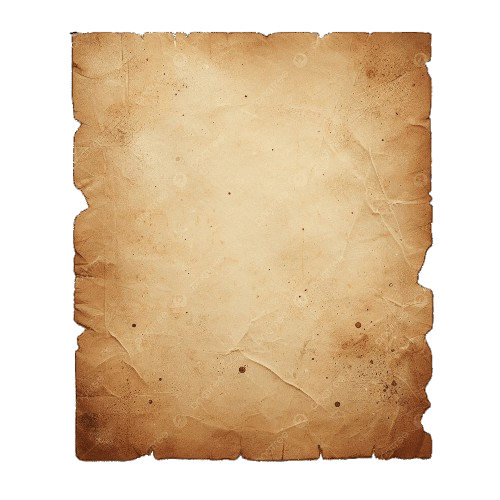
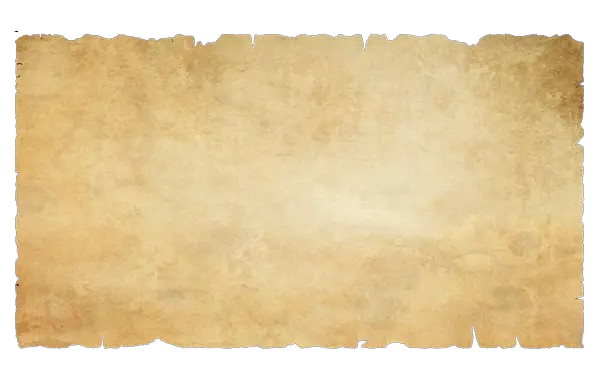
contrats Confrérie : conserver la version embed (texte lisible) + nouvelle texture parchemin
Sur demande : retour à la version embed pour les 3 MP (contrat client, ordre de
mission, fin de mission) — texte lisible dans le message + parchemin en image en
dessous. Nouvelle texture parchemin appliquée (depositphotos torn grunge).
Le code de génération d'image « texte gravé » est conservé (parchemin-image.js +
helpers) mais non utilisé, pour réactivation ultérieure.

Claude-Session: https://claude.ai/code/session_01Td26hkUg7LXPsCYqra8cis

diff --git a/contrats-confrerie.js b/contrats-confrerie.js
@@ -340,11 +340,8 @@ async function envoyerBriefings(guild, contrat) {
     try {
       const m = await guild.members.fetch(userId).catch(() => null);
       if (m) {
-        // Ordre de mission en IMAGE parchemin (texte gravé) ; repli sur l'embed si génération KO
-        const imgB = await genererImageBriefing(contrat).catch(() => null);
-        const dm = imgB
-          ? await m.send({ content: "📜 *Frère, un ordre de mission t'est confié. Lis-le, puis réponds.*", files: [new AttachmentBuilder(imgB, { name: `mission-${contrat.id}.png` })], components: buildBriefingButtons(contrat) }).catch(() => null)
-          : await m.send({ embeds: [buildBriefingEmbed(contrat)], components: buildBriefingButtons(contrat), files: [parcheminFichier()].filter(Boolean) }).catch(() => null);
+        // Version conservée : ordre de mission en embed parchemin (image en dessous)
+        const dm = await m.send({ embeds: [buildBriefingEmbed(contrat)], components: buildBriefingButtons(contrat), files: [parcheminFichier()].filter(Boolean) }).catch(() => null);
         if (dm) dmOk = true;
       }
     } catch {}
@@ -781,28 +778,23 @@ async function cloturer(interaction, succes) {
   }
   const jc = journalCh(interaction.guild);
   if (jc) await jc.send({ embeds: [new EmbedBuilder().setColor(succes ? 0x57F287 : 0xED4245).setTitle(`${succes ? '✅' : '💀'} Contrat ${succes ? 'réussi' : 'échoué'} — ${c.id}`).setDescription(`**${c.typeMission}** · clôturé par ${c.clôturePar}`).setFooter({ text: 'La Confrérie • Contrats' }).setTimestamp()] }).catch(() => {});
-  // prévenir les agents — fin de mission en IMAGE parchemin (repli sur l'embed si génération KO)
-  const imgFin = await genererImageFinMission(c, succes).catch(() => null);
+  // prévenir les agents — fin de mission en embed parchemin (version conservée)
   for (const userId of (c.agents || [])) {
     try {
       const m = await interaction.guild.members.fetch(userId).catch(() => null);
       if (!m) continue;
-      if (imgFin) {
-        await m.send({ files: [new AttachmentBuilder(imgFin, { name: `fin-${c.id}.png` })] }).catch(() => {});
-      } else {
-        await m.send({ embeds: [new EmbedBuilder()
-          .setColor(0xC9A66B)
-          .setTitle(`📜 ⸺  ${succes ? 'MISSION ACCOMPLIE' : 'MISSION ÉCHOUÉE'}  ⸺ 📜`)
-          .setDescription([
-            `*Concernant le pacte \`${c.id}\` (${emojiType(c.typeMission)} ${c.typeMission})…*`,
-            '',
-            succes
-              ? '✒️ *Belle besogne, frère. La Confrérie n\'oublie jamais les siens — ta part te reviendra.*'
-              : '🩸 *La besogne a tourné court. On en tire les leçons, et l\'on remet l\'ouvrage sur le métier.*',
-          ].join('\n'))
-          .setFooter({ text: '✒️ La Confrérie — an 1904 • Confidentiel' })
-          .setImage(PARCHEMIN_IMG)], files: [parcheminFichier()].filter(Boolean) }).catch(() => {});
-      }
+      await m.send({ embeds: [new EmbedBuilder()
+        .setColor(0xC9A66B)
+        .setTitle(`📜 ⸺  ${succes ? 'MISSION ACCOMPLIE' : 'MISSION ÉCHOUÉE'}  ⸺ 📜`)
+        .setDescription([
+          `*Concernant le pacte \`${c.id}\` (${emojiType(c.typeMission)} ${c.typeMission})…*`,
+          '',
+          succes
+            ? '✒️ *Belle besogne, frère. La Confrérie n\'oublie jamais les siens — ta part te reviendra.*'
+            : '🩸 *La besogne a tourné court. On en tire les leçons, et l\'on remet l\'ouvrage sur le métier.*',
+        ].join('\n'))
+        .setFooter({ text: '✒️ La Confrérie — an 1904 • Confidentiel' })
+        .setImage(PARCHEMIN_IMG)], files: [parcheminFichier()].filter(Boolean) }).catch(() => {});
     } catch {}
   }
 }
@@ -850,18 +842,8 @@ async function onSignPick(interaction) {
     new ButtonBuilder().setCustomId(`cc_dosign::${id}`).setLabel('Apposer ma marque').setEmoji('✒️').setStyle(ButtonStyle.Success),
     new ButtonBuilder().setCustomId(`cc_norefuse::${id}`).setLabel('Décliner').setEmoji('✖️').setStyle(ButtonStyle.Danger),
   );
-  // On envoie le contrat comme IMAGE parchemin (texte gravé) ; si la génération échoue → embed classique
-  const imgBuf = await genererImageContrat(c).catch(() => null);
-  let dm;
-  if (imgBuf) {
-    dm = await user.send({
-      content: '📜 *Un pacte vous est proposé. Lisez-en les termes, puis tranchez.*',
-      files: [new AttachmentBuilder(imgBuf, { name: `contrat-${c.id}.png` })],
-      components: [btn],
-    }).catch(() => null);
-  } else {
-    dm = await user.send({ embeds: [buildSignatureEmbed(c)], components: [btn], files: [parcheminFichier()].filter(Boolean) }).catch(() => null);
-  }
+  // Version conservée : contrat en embed parchemin (image en dessous)
+  const dm = await user.send({ embeds: [buildSignatureEmbed(c)], components: [btn], files: [parcheminFichier()].filter(Boolean) }).catch(() => null);
   if (!dm) return interaction.editReply({ content: `⚠️ Impossible d'envoyer le MP à <@${uid}> (ses messages privés sont fermés, ou le bot n'a aucun serveur en commun avec cette personne).`, components: [] });
   c.signataireId = uid;
   c.signatureEnvoyeeAt = new Date().toISOString();